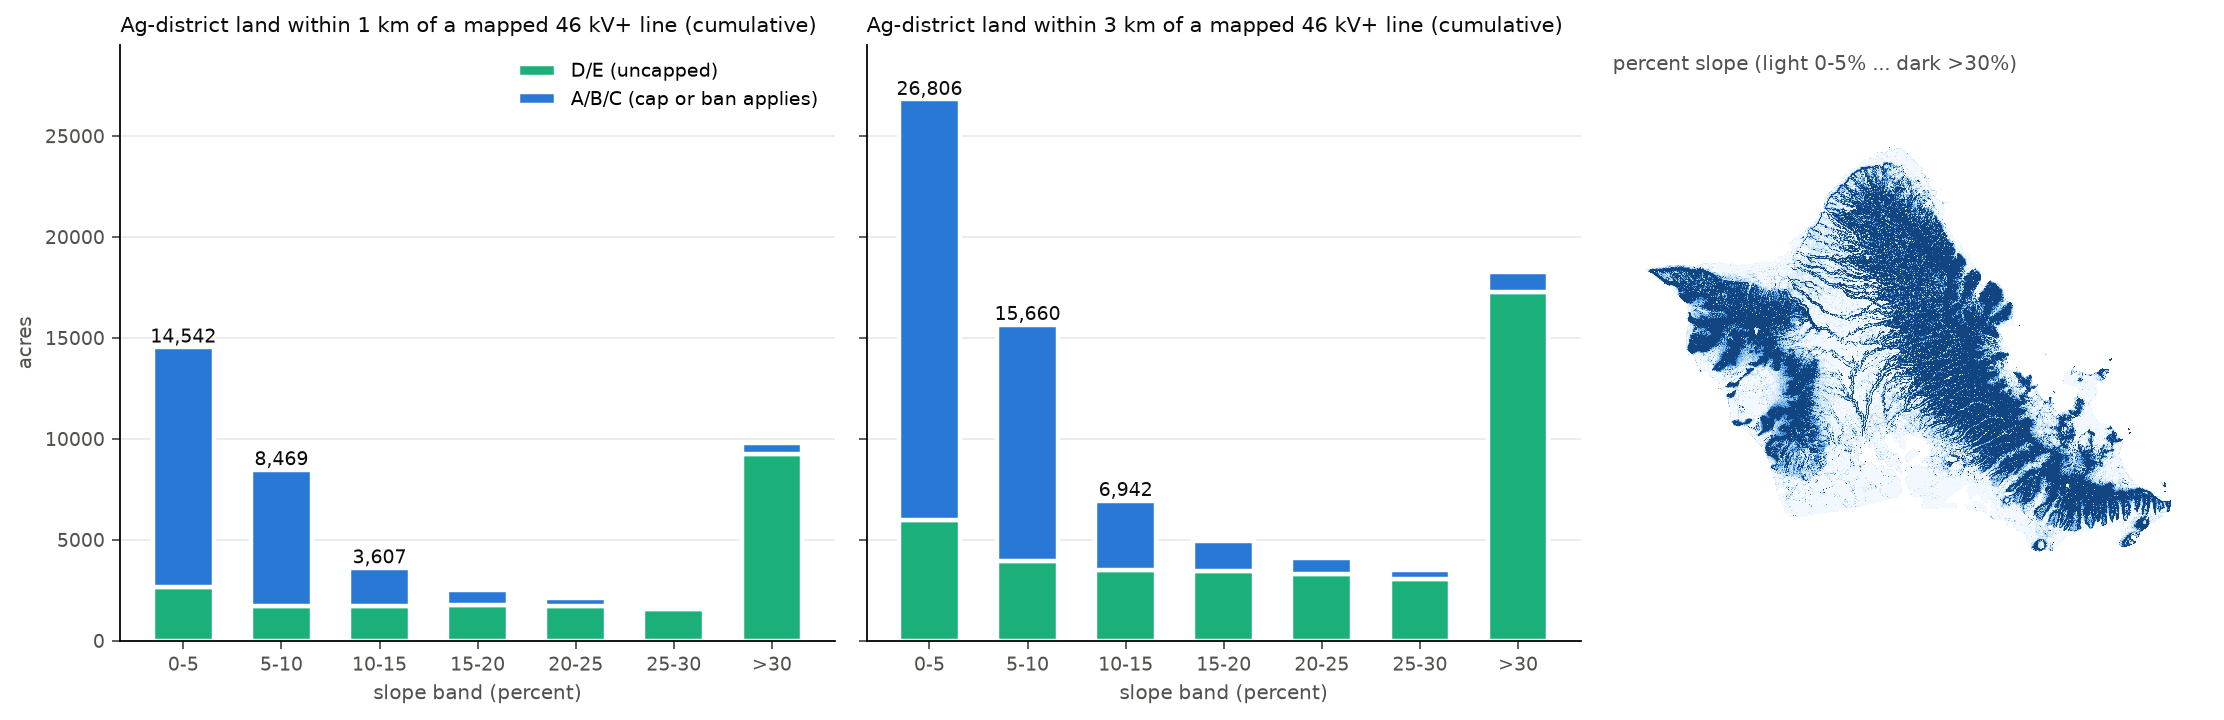
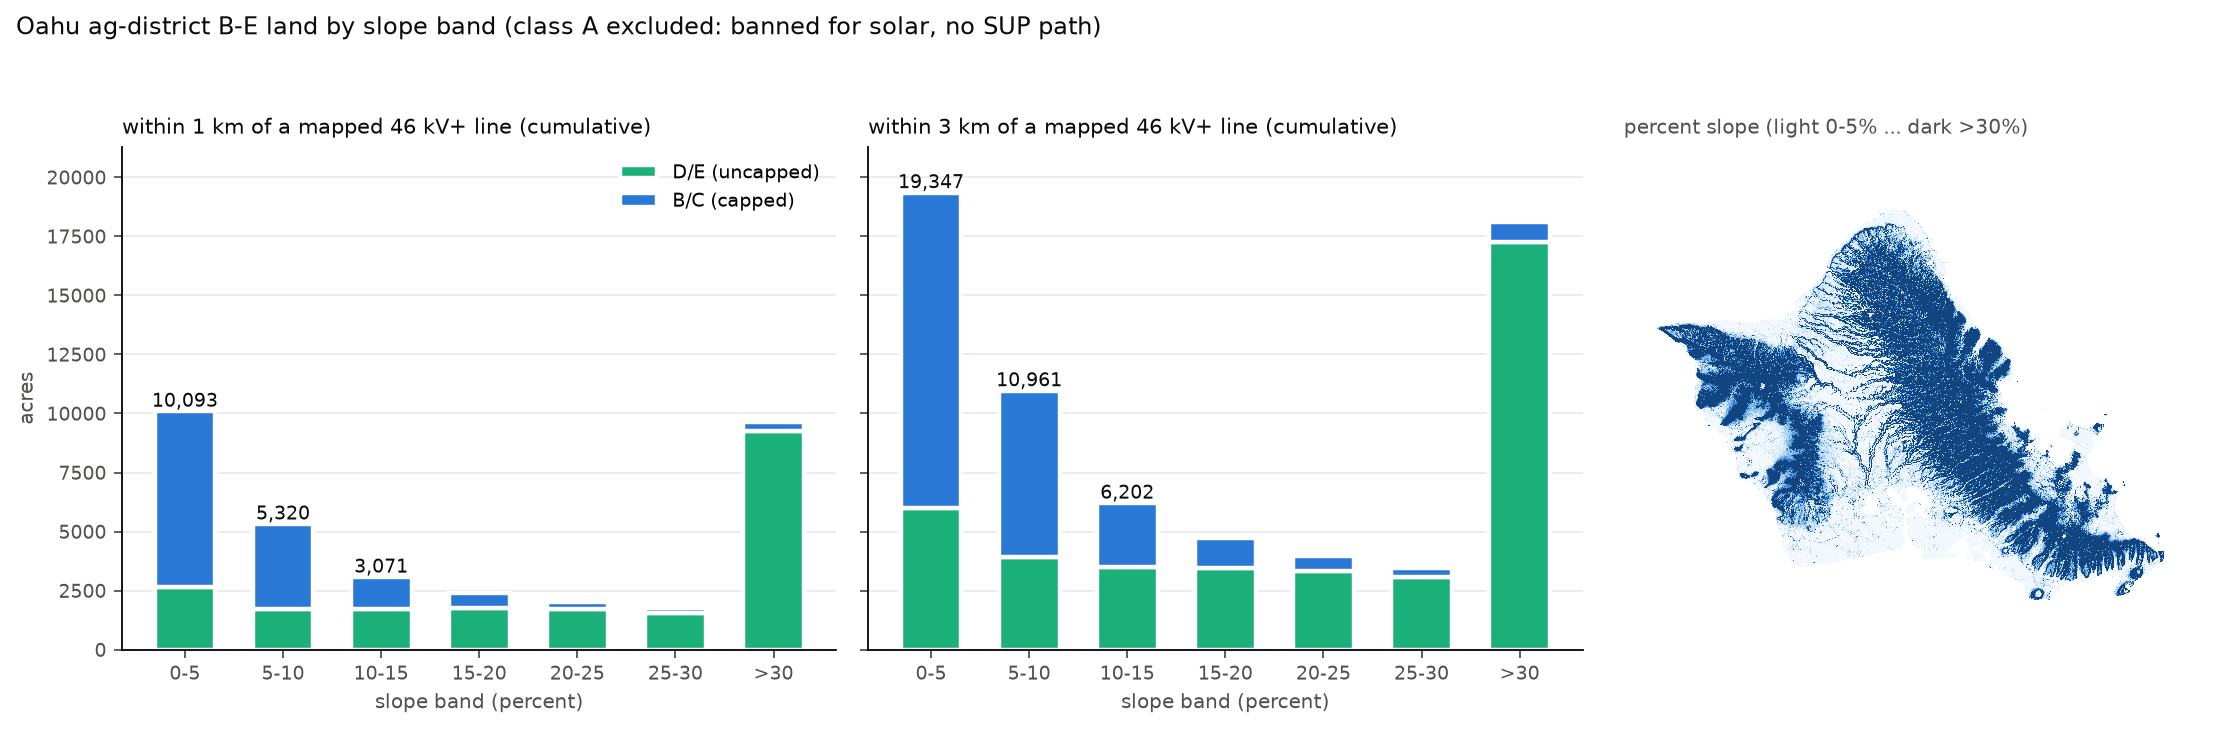
Exclude class A from corridor and slope figures
Class A hosts no solar under any path; corridor candidates re-ranked
(C03 Waialua 5,697 ac, 74% B/C; C01 14,210 ac), ring owner count 31->28.

Claude-Session: https://claude.ai/code/session_01XZWrBYW7S6F1sasvKVeE36

diff --git a/paper/land-restrictions-paper.html b/paper/land-restrictions-paper.html
@@ -253,26 +253,27 @@
   <figure>
     <div class="figcard"><img src="__F6__" alt="Map of candidate transmission unlock clusters with existing lines and shortest new-ROW spurs"></div>
     <figcaption><b>Figure 4.</b> Candidate transmission unlocks: buildable (≤30% slope) ag land beyond 1 km of a mapped
-    line, clustered and shaded by acres-per-km rank, with the shortest new-ROW spur to each cluster (dashed).</figcaption>
+    line, clustered and shaded by acres-per-km rank, with the shortest new-ROW spur to each cluster (dashed). Class A
+    land is excluded (solar is not permitted on it under any path).</figcaption>
   </figure>
 
   <div class="tablewrap">
   <table>
-    <caption><span class="cno">Table 4.</span> Leading corridor candidates and the in-ROW upgrade ring (slope ≤30%; MW at 5 ac/MW)</caption>
+    <caption><span class="cno">Table 4.</span> Leading corridor candidates and the in-ROW upgrade ring (slope ≤30%; class A excluded; MW at 5 ac/MW)</caption>
     <tr><th>Candidate</th><th class="num">Buildable ac</th><th class="num">MW</th><th class="num">Owners (≥100 ac)</th><th>Top owners</th><th>Notes</th></tr>
-    <tr><td><b>1–3 km ring (upgrade existing ROWs)</b></td><td class="num">≈24,000 (non-A)</td><td class="num">≈4,800</td><td class="num">31</td><td>Dispersed</td><td>Served by short 46 kV spurs / reconductoring within existing corridors; largest volume and widest owner dispersion of any option. ≤15% slope: ≈18,000 ac</td></tr>
-    <tr><td>C03 Waialua</td><td class="num">7,306</td><td class="num">1,461</td><td class="num">5</td><td>Dole 26%, Kamehameha Schools 19%, ag-CPR 34%</td><td>≈2 km of new ROW; 58% B/C soil, so most of its value is contingent on cap relaxation. The standout commercially competitive greenfield unlock</td></tr>
+    <tr><td><b>1–3 km ring (upgrade existing ROWs)</b></td><td class="num">≈24,000</td><td class="num">≈4,800</td><td class="num">28</td><td>Dispersed</td><td>Served by short 46 kV spurs / reconductoring within existing corridors; largest volume and widest owner dispersion of any option. ≤15% slope: ≈18,000 ac</td></tr>
+    <tr><td>C03 Waialua</td><td class="num">5,697</td><td class="num">1,139</td><td class="num">5</td><td>Dole, Kamehameha Schools, ag-CPR, State</td><td>≈2 km of new ROW; 74% B/C soil, so most of its value is contingent on cap relaxation. The standout commercially competitive greenfield unlock</td></tr>
     <tr><td>C04 Kahuku</td><td class="num">5,630</td><td class="num">1,126</td><td class="num">4</td><td>US 36%, Property Reserve (LDS) 33%</td><td>Partly federal; North Shore siting politics apply</td></tr>
-    <tr><td>C01 Waiʻanae mauka/plateau</td><td class="num">17,776</td><td class="num">3,555</td><td class="num">21</td><td>Mixed</td><td>Largest on both rankings, but military-adjacent and its "unserved" status is partly an artifact of 46 kV under-mapping — verify against actual line maps before weighting</td></tr>
-    <tr><td>C02 Lualualei</td><td class="num">9,059</td><td class="num">1,812</td><td class="num">—</td><td>US Navy (majority)</td><td>Majority federal; commercially leasable only via military enhanced-use leases</td></tr>
+    <tr><td>C01 Waiʻanae mauka/plateau</td><td class="num">14,210</td><td class="num">2,842</td><td class="num">18</td><td>Mixed</td><td>Largest on both rankings, but military-adjacent and its "unserved" status is partly an artifact of 46 kV under-mapping — verify against actual line maps before weighting</td></tr>
+    <tr><td>C02 Lualualei</td><td class="num">8,749</td><td class="num">1,750</td><td class="num">—</td><td>US Navy (majority)</td><td>Majority federal; commercially leasable only via military enhanced-use leases</td></tr>
   </table>
   </div>
 
   <p>Two readings follow. Upgrading existing rights-of-way serves more buildable land (≈24,000 non-A acres) across more
-  owners (31) than any greenfield corridor, consistent with treating in-ROW capacity upgrades as the first-order
+  owners (28) than any greenfield corridor, consistent with treating in-ROW capacity upgrades as the first-order
   transmission strategy. Among genuinely new corridors, a short (~2 km) Waialua spur is the one candidate that combines
   volume, multiple private owners, and commercial availability — and its value is mostly contingent on relaxing the B/C
-  cap, since 58% of the cluster is B/C soil. Several apparent clusters (Ewa/Puʻuloa, Waiau, Helemano) are likely
+  cap, since 74% of the cluster is B/C soil. Several apparent clusters (Ewa/Puʻuloa, Waiau, Helemano) are likely
   artifacts of the 46 kV mapping gap, and the federal-majority clusters are available only through military leasing
   programs. Line and substation capacity, which is confidential, is unexamined throughout.</p>
 
@@ -286,7 +287,7 @@
   <figure>
     <div class="figcard"><img src="__F5__" alt="Stacked bars of near-grid acres by slope band and soil group, with slope map inset"></div>
     <figcaption><b>Figure 5.</b> Ag-district land within 1 km and within 3 km of a mapped 46 kV+ line, by percent-slope band and soil
-    group (cumulative panels), with the island-wide slope raster inset.</figcaption>
+    group (cumulative panels), with the island-wide slope raster inset. Class A land is excluded.</figcaption>
   </figure>
 
   <div class="tablewrap">

diff --git a/analysis/slope_screen.py b/analysis/slope_screen.py
@@ -214,8 +214,10 @@ def make_figure(band, cls, buf1, buf3, island):
 
     labels = ["0-5", "5-10", "10-15", "15-20", "20-25", "25-30", ">30"]
     # categorical slots 1-2 from the validated reference palette
-    c_abc, c_de = "#2a78d6", "#1baf7a"
-    abc = np.isin(cls, [1, 2, 3])
+    c_bc, c_de = "#2a78d6", "#1baf7a"
+    # class A dropped from this figure: banned for solar, no SUP path
+    bc_sel = np.isin(cls, [2, 3])
+    de_sel = np.isin(cls, [4, 5])
 
     fig, (ax1, ax3, ax2) = plt.subplots(
         1, 3, figsize=(14, 4.6), dpi=160,
@@ -224,28 +226,26 @@ def make_figure(band, cls, buf1, buf3, island):
     ymax = 0.0
     for ax, lab, buf in [(ax1, "within 1 km", buf1),
                          (ax3, "within 3 km", buf3)]:
-        m = (cls > 0) & (band > 0) & buf
+        m = (band > 0) & buf
         acres = {g: [((band == b) & m & sel).sum() * CELL_AC
                      for b in range(1, 8)]
-                 for g, sel in [("A/B/C (cap or ban applies)", abc),
-                                ("D/E (uncapped)", ~abc)]}
+                 for g, sel in [("B/C (capped)", bc_sel),
+                                ("D/E (uncapped)", de_sel)]}
         ax.bar(x, acres["D/E (uncapped)"], 0.62, color=c_de,
                label="D/E (uncapped)", edgecolor="white", linewidth=2)
-        ax.bar(x, acres["A/B/C (cap or ban applies)"], 0.62,
-               bottom=acres["D/E (uncapped)"], color=c_abc,
-               label="A/B/C (cap or ban applies)",
-               edgecolor="white", linewidth=2)
+        ax.bar(x, acres["B/C (capped)"], 0.62,
+               bottom=acres["D/E (uncapped)"], color=c_bc,
+               label="B/C (capped)", edgecolor="white", linewidth=2)
         tots = (np.array(acres["D/E (uncapped)"])
-                + np.array(acres["A/B/C (cap or ban applies)"]))
+                + np.array(acres["B/C (capped)"]))
         ymax = max(ymax, tots.max())
         for i in (0, 1, 2):  # direct labels on the flattest three bands
             ax.annotate(f"{tots[i]:,.0f}", (i, tots[i]), ha="center",
                         va="bottom", fontsize=8.5, color="#0b0b0b")
         ax.set_xticks(x, labels)
         ax.set_xlabel("slope band (percent)", fontsize=9, color="#52514e")
-        ax.set_title(f"Ag-district land {lab} of a mapped 46 kV+ line "
-                     "(cumulative)", fontsize=9.5, color="#0b0b0b",
-                     loc="left")
+        ax.set_title(f"{lab} of a mapped 46 kV+ line (cumulative)",
+                     fontsize=9.5, color="#0b0b0b", loc="left")
         ax.spines[["top", "right"]].set_visible(False)
         ax.tick_params(colors="#52514e", labelsize=8.5)
         ax.grid(axis="y", color="#eceae6", linewidth=0.8)
@@ -267,7 +267,10 @@ def make_figure(band, cls, buf1, buf3, island):
     ax2.set_title("percent slope (light 0-5% ... dark >30%)",
                   fontsize=9, color="#52514e", loc="left")
     ax2.set_axis_off()
-    fig.tight_layout()
+    fig.suptitle("Oahu ag-district B-E land by slope band "
+                 "(class A excluded: banned for solar, no SUP path)",
+                 fontsize=11, color="#0b0b0b", x=0.01, ha="left")
+    fig.tight_layout(rect=(0, 0, 1, 0.94))
     out = FIGS / "oahu_slope_bands.png"
     fig.savefig(out, bbox_inches="tight")
     paper = FIGS / "paper"

diff --git a/analysis/corridor_candidates.py b/analysis/corridor_candidates.py
@@ -17,7 +17,8 @@ Inputs (all cached by earlier scripts):
   data/oahu_land_transmission.csv     ag-parcel list (TMK-keyed)
   data/oahu_ag_owners.csv             resolved owners (TMK-keyed)
 
-Buildable = percent slope <= 30 (headline; <=15 also reported).
+Buildable = percent slope <= 30 (headline; <=15 also reported), EXCLUDING
+LSB class A land (banned for solar with no SUP path, so never unlockable).
 Clusters = 8-connected components of (ag-district & >1 km from 46 kV+)
 on the 10 m grid, reported if buildable_le30 >= 250 ac.
 
@@ -108,8 +109,10 @@ def main():
     cells = pd.DataFrame({
         "lab": lab[m], "cls": cls[m], "band": band[m], "pid": pid[m],
         "d46": dist46[m], "d138": dist138[m]})
-    cells["le15"] = cells.band <= 3
-    cells["le30"] = cells.band <= 6
+    # buildable excludes LSB class A: no solar on A under any path
+    # ((a)(20) proviso bans it outright; no SUP route exists for A soils)
+    cells["le15"] = (cells.band <= 3) & (cells.cls > 1)
+    cells["le30"] = (cells.band <= 6) & (cells.cls > 1)
 
     g = cells.groupby("lab")
     tab = pd.DataFrame({
@@ -222,8 +225,8 @@ def main():
     ring = (cls > 0) & (band > 0) & buf3 & ~buf1
     rc = pd.DataFrame({"cls": cls[ring], "band": band[ring],
                        "pid": pid[ring]})
-    rc["le15"] = rc.band <= 3
-    rc["le30"] = rc.band <= 6
+    rc["le15"] = (rc.band <= 3) & (rc.cls > 1)   # class A excluded
+    rc["le30"] = (rc.band <= 6) & (rc.cls > 1)
     grp = np.select([rc.cls.isin([2, 3]), rc.cls.isin([4, 5])],
                     ["BC", "DE"], default="A")
     ring_tab = pd.DataFrame({
@@ -294,9 +297,9 @@ def make_figure(out, lines, lsb_ag, spurs):
                          label="shortest new-ROW spur")])
     ax.legend(handles=handles, loc="lower left", fontsize=8, frameon=True,
               framealpha=0.95, edgecolor="#d8d6d0")
-    ax.set_title("Candidate transmission unlocks: buildable (slope<=30%) "
-                 "ag land >1 km from a mapped line", fontsize=11.5,
-                 color="#0b0b0b")
+    ax.set_title("Candidate transmission unlocks: buildable (slope<=30%, "
+                 "class A excluded) ag land >1 km from a mapped line",
+                 fontsize=11.5, color="#0b0b0b")
     ax.set_axis_off()
     fig.tight_layout()
     paper = FIGS / "paper"

diff --git a/notes/oahu-transmission-screen.md b/notes/oahu-transmission-screen.md
@@ -175,9 +175,11 @@ Script: `analysis/corridor_candidates.py`. Outputs:
 `data/gis/oahu_corridor_candidates.csv`, `oahu_ring_1_3km_summary.csv`,
 map `analysis/figs/paper/f_corridors.png`.
 
-Method: buildable = slope ≤30% (≤15% also reported); "unserved" = ag-district
-land >1 km from any mapped 46 kV+ line; clusters = 8-connected components on
-the 10 m grid, kept if ≥250 buildable ac (16 clusters). Because every
+Method: buildable = slope ≤30% (≤15% also reported), **excluding LSB class
+A** (banned for solar with no SUP path — revised 2026-07-12 per Mike;
+class-A land can never be unlocked); "unserved" = ag-district land >1 km
+from any mapped 46 kV+ line; clusters = 8-connected components on the 10 m
+grid, kept if ≥250 buildable ac (16 clusters). Because every
 cluster's edge sits ~1 km from the network by construction, ranking uses the
 **mean buildable-cell distance to the network** (`km_new_row_46kv`) as the
 new-ROW denominator — a spur to the cluster edge does not serve its far
@@ -189,30 +191,38 @@ PPA-bid competition more than one serving a single estate.
 
 ### Top candidates, acres per km of new ROW (buildable ≤30%)
 
+(Class-A exclusion trimmed the big candidates: C01 lost ~3,570 ac (A on its
+Schofield/Waialua fringe), C03 Waialua lost ~1,610 ac — 22% of its
+previously counted resource was A — and the old Kunia/Bayer cluster shrank
+from 963 to 303 buildable ac (mostly A) and fell to the bottom of the
+table. C04 Kahuku was essentially unaffected (~12 A ac). Cluster IDs below
+are the re-ranked, post-exclusion IDs in the current CSV.)
+
 | Rank | ID | Locality (approx) | Buildable ac ≤15/≤30 | MW@5 | %D/E | mean ROW km | ac/km | owners ≥100ac | Top owners |
 |---|---|---|---|---|---|---|---|---|---|
-| 1 | C01 | Waianae Range mauka + central plateau fringe | 13,255/17,776 | 3,555 | 44 | 3.8 | 4,735 | 21 | US Govt 26%, Island Palm (Army PPP) 12%, Corteva 10% |
-| 2 | C03 | Waialua | 6,400/7,306 | 1,461 | 20 | 2.0 | 3,677 | 5 | Laukiha'a ag CPR 34%, Dole 26%, Kamehameha Schools 19% |
-| 3 | C02 | Lualualei | 6,782/9,059 | 1,812 | 90 | 3.6 | 2,524 | 5 | **US 55% (majority federal)**, State 10%, DHHL 5% |
-| 4 | C04 | Kahuku | 3,137/5,630 | 1,126 | 48 | 2.5 | 2,238 | 4 | US 36%, Property Reserve (LDS) 33%, State 15% |
-| 5 | C06 | Pupukea/Waimea | 1,377/1,759 | 352 | 43 | 2.1 | 838 | 1 | Kamehameha Schools 99% |
+| 1 | C01 | Waianae Range mauka + central plateau fringe | 9,742/14,210 | 2,842 | 55 | 3.9 | 3,644 | 18 | US Govt 26%, Island Palm (Army PPP) 12%, Corteva 10% |
+| 2 | C03 | Waialua | 4,835/5,697 | 1,139 | 26 | 2.0 | 2,781 | 5 | Laukiha'a ag CPR 34%, Dole 26%, Kamehameha Schools 19% |
+| 3 | C02 | Lualualei | 6,479/8,749 | 1,750 | 94 | 3.6 | 2,423 | 5 | **US 55% (majority federal)**, State 10%, DHHL 5% |
+| 4 | C04 | Kahuku | 3,132/5,618 | 1,124 | 48 | 2.5 | 2,237 | 4 | US 36%, Property Reserve (LDS) 33%, State 15% |
+| 5 | C06 | Pupukea/Waimea | 1,318/1,700 | 340 | 45 | 2.1 | 797 | 1 | Kamehameha Schools 99% |
 
 ### Top candidates, distinct-owners-unlocked per km (competition metric)
 
-C01 (5.6 owners/km), C03 (2.5), C04 (1.6), C14 Waipio/Waiawa (1.5),
-C02/C11 (1.4). **C03 (Waialua) is the standout commercially competitive
-unlock**: ~2 km of new/upgraded ROW from the Waialua 46 kV corridor reaches
-7,300 buildable ac split across five substantial owners (Dole, Kamehameha
-Schools, an ag-CPR community, plus state parcels) with 58% B/C — i.e. it is
-also the cluster whose value most depends on cap reform (S3). C01's
-owner count (21) overstates commercial competition: it merges
-Schofield-plateau fringe land where the owner list is heavily
-military/federal-adjacent and where unmapped 46 kV likely already exists.
+C01 (4.6 owners/km), C03 (2.4), C04 (1.6), C13 Waipio/Waiawa (1.5),
+C02/C10 (1.4). **C03 (Waialua) remains the standout commercially
+competitive unlock**: ~2 km of new/upgraded ROW from the Waialua 46 kV
+corridor reaches ~5,700 buildable ac split across five substantial owners
+(Dole, Kamehameha Schools, an ag-CPR community, plus state parcels), now
+74% B/C after removing its class-A core — i.e. it is even more clearly the
+cluster whose value depends on cap reform (S3). C01's owner count (18)
+overstates commercial competition: it merges Schofield-plateau fringe land
+where the owner list is heavily military/federal-adjacent and where
+unmapped 46 kV likely already exists.
 
 Majority-federal clusters (flagged in CSV, not commercially leasable in
-practice): C02 Lualualei (Navy), C07 Ewa/Puuloa (Navy 63%), C08
-Pearl City/Waiau mauka (US 93%), C11 Kahuku point (FWS 61%), C16
-Helemano (US 99%).
+practice): C02 Lualualei (Navy), C07 Ewa/Puuloa (Navy), C08
+Pearl City/Waiau mauka (US 93%), C10 Kahuku point (FWS), C15
+Helemano (US).
 
 ### The cheap upgrades: buildable land in the 1–3 km ring
 
@@ -221,24 +231,29 @@ premise), by soil group:
 
 | Group | Buildable ac ≤15% | Buildable ac ≤30% |
 |---|---|---|
-| A (banned) | 4,762 | 4,866 |
 | B/C (capped; S3-relevant) | 10,686 | 11,842 |
 | D/E (uncapped) | 7,341 | 12,177 |
 
-**31 distinct resolved owners** hold ≥100 buildable (≤30%) ac in the ring.
-The ring alone contains ~24,000 buildable non-A acres (~4,800 MW @5 ac/MW
-envelope) — more than any single new-corridor cluster except C01 — and it
-is dispersed across many owners, supporting the view that incremental
-46 kV work dominates greenfield corridors on both cost and competition
-before any big new ROW is justified.
+(Class A — 4,762/4,866 ac in the ring — is excluded from "buildable"
+throughout; it can host no solar under any path. The B/C and D/E rows were
+already A-free and are unchanged by the revision.)
+
+**28 distinct resolved owners** hold ≥100 buildable (≤30%) ac in the ring
+(was 31 before excluding class-A acreage from the ≥100 ac test).
+The ring contains ~24,000 buildable acres (~4,800 MW @5 ac/MW envelope) —
+more than any single new-corridor cluster — and it is dispersed across
+many owners, supporting the view that incremental 46 kV work dominates
+greenfield corridors on both cost and competition before any big new ROW
+is justified.
 
 ### Caveats specific to this section
 
 - 46 kV under-mapping cuts BOTH ways here: it inflates "unserved" clusters
-  (parts of C01's plateau fringe, C07, C08, C15 are probably already within
-  1 km of a real line) AND understates the 1–3 km ring. Treat C07/C08/C15
-  as likely artifacts; C02/C03/C04/C05/C06/C09/C12 are robust (far even
-  from the reliable 138 kV network).
+  (parts of C01's plateau fringe and the Ewa/Pearl City-fringe clusters are
+  probably already within 1 km of a real line) AND understates the 1–3 km
+  ring. Treat the urban-fringe clusters (C07, C08, C14) as likely
+  artifacts; C02/C03/C04/C05/C06/C09/C11 are robust (far even from the
+  reliable 138 kV network).
 - "km of new ROW" is straight-line; real routes follow roads/terrain.
 - Owner shares are of buildable ≤30% acres, from the RPAD owner file
   (confidence flags in `oahu_ag_owners.csv`); unparceled cluster area is